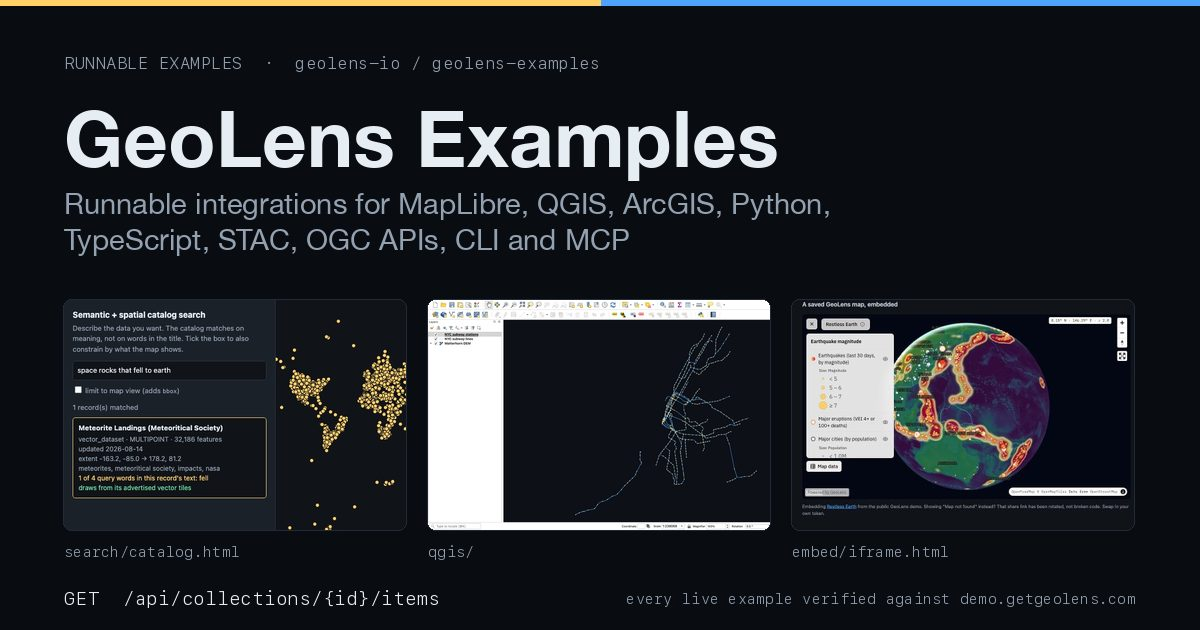
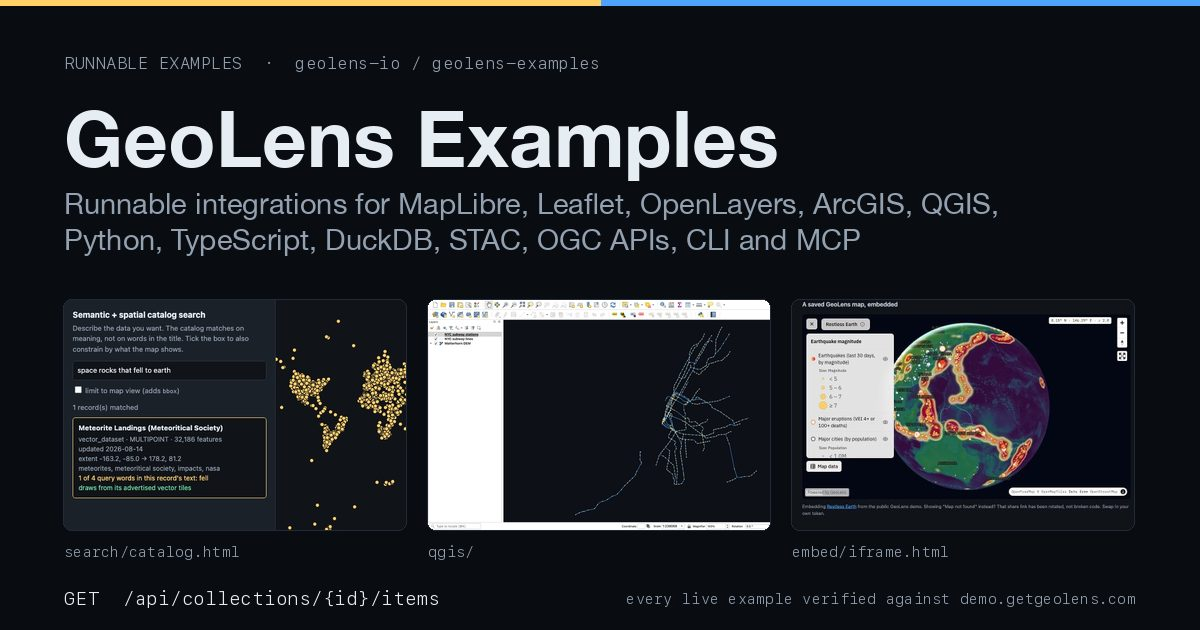
site: review fixes (showcase maps claim, QGIS alt text, DuckDB in the description and social card, image alt tags, star wording)

Changed region(s): [[0.0308, 0.3016, 0.8325, 0.4222]]

diff --git a/index.html b/index.html
@@ -4,7 +4,7 @@
 <meta charset="utf-8" />
 <title>GeoLens Examples</title>
 <meta name="viewport" content="width=device-width, initial-scale=1" />
-<meta name="description" content="Runnable examples for reading a GeoLens catalog from MapLibre, Leaflet, OpenLayers, the ArcGIS SDK, the TypeScript and Python SDKs, and MCP: OGC API Features, STAC, vector and raster tiles, and embedded maps. Every live example runs against the public demo." />
+<meta name="description" content="Runnable examples for reading a GeoLens catalog from MapLibre, Leaflet, OpenLayers, the ArcGIS SDK, QGIS, DuckDB, the TypeScript and Python SDKs, the CLI and MCP: OGC API Features, STAC, vector and raster tiles, and embedded maps. Every live example runs against the public demo." />
 <link rel="canonical" href="https://geolens-io.github.io/geolens-examples/" />
 <meta property="og:title" content="GeoLens Examples" />
 <meta property="og:description" content="Copy-paste integrations against a self-hosted GeoLens spatial data hub: OGC API Features, STAC, vector and raster tiles, embedded maps, and both SDKs. Every live example runs against the public demo." />
@@ -13,10 +13,12 @@
 <meta property="og:image" content="https://geolens-io.github.io/geolens-examples/assets/social-card.jpg" />
 <meta property="og:image:width" content="1200" />
 <meta property="og:image:height" content="630" />
+<meta property="og:image:alt" content="GeoLens Examples: semantic catalog search, QGIS, and an embedded map, each reading the public demo" />
 <meta name="twitter:card" content="summary_large_image" />
 <meta name="twitter:title" content="GeoLens Examples" />
 <meta name="twitter:description" content="Copy-paste integrations against a self-hosted GeoLens spatial data hub: OGC API Features, STAC, vector and raster tiles, embedded maps, and both SDKs. Every live example runs against the public demo." />
 <meta name="twitter:image" content="https://geolens-io.github.io/geolens-examples/assets/social-card.jpg" />
+<meta name="twitter:image:alt" content="GeoLens Examples: semantic catalog search, QGIS, and an embedded map, each reading the public demo" />
 <link rel="icon" href="assets/favicon.svg" type="image/svg+xml" />
 <link rel="icon" href="assets/favicon-32.png" type="image/png" sizes="32x32" />
 <style>
@@ -249,7 +251,7 @@
       <a href="https://github.com/geolens-io/geolens-examples">Repository</a>
       <a href="https://demo.getgeolens.com/collections">Demo catalog</a>
       <a class="star" href="https://github.com/geolens-io/geolens">★ Star geolens on GitHub</a>
-      <a class="star quiet" href="https://github.com/geolens-io/geolens-examples">☆ Save these examples</a>
+      <a class="star quiet" href="https://github.com/geolens-io/geolens-examples">☆ Star the examples</a>
     </nav>
   </header>
 
@@ -330,7 +332,7 @@
 
   <footer class="page">
     <p>
-      Not here yet: ArcGIS Pro, and the workflows the public demo cannot host at all
+      Not here yet: ArcGIS Pro and the workflows the public demo cannot host at all
       (server-side analysis, private embeds).
       <a href="https://github.com/geolens-io/geolens-examples/issues">Open an issue</a> if you want one sooner.
     </p>

diff --git a/README.md b/README.md
@@ -5,11 +5,11 @@
 [![GeoLens v1.13+](https://img.shields.io/badge/GeoLens-v1.13%2B-1a66c9)](https://github.com/geolens-io/geolens)
 [![License: MIT](https://img.shields.io/badge/License-MIT-blue.svg)](LICENSE)
 
-[GeoLens](https://github.com/geolens-io/geolens) is a self-hosted spatial data hub: catalog, search, maps, analysis, and open APIs over data that stays on your own infrastructure. This repo holds copy-paste integrations for the tools your stack already uses. Every browser, Python and DuckDB example reads the public demo anonymously, so you clone, open, and see it render; one constant at the top points it at your own instance. The exception is [`cli/`](cli/), which publishes to a catalog and so runs against your own instance with a credential.
+[GeoLens](https://github.com/geolens-io/geolens) is a self-hosted spatial data hub: catalog, search, maps, analysis, and open APIs over data that stays on your own infrastructure. This repo holds copy-paste integrations for the tools your stack already uses. Every browser, Python, and DuckDB example reads the public demo anonymously, so you clone, open, and see it run; one constant at the top points it at your own instance. The exception is [`cli/`](cli/), which publishes to a catalog and so runs against your own instance with a credential.
 
 <p align="center">
   <a href="https://geolens-io.github.io/geolens-examples/search/catalog.html"><img src="assets/search-catalog.jpg" width="32%" alt="Semantic catalog search: the phrase 'space rocks that fell to earth' matches the meteorite landings dataset, drawn on the map beside the result card" /></a>
-  <a href="qgis/"><img src="assets/qgis-window.jpg" width="32%" alt="QGIS with the demo's subway stations, subway lines and Matterhorn DEM added through one OGC API Features connection" /></a>
+  <a href="qgis/"><img src="assets/qgis-window.jpg" width="32%" alt="QGIS showing the demo's subway stations and lines over OGC API Features, and the Matterhorn DEM as XYZ tiles" /></a>
   <a href="https://geolens-io.github.io/geolens-examples/embed/iframe.html"><img src="assets/embed-iframe.jpg" width="32%" alt="A saved GeoLens map, Restless Earth, embedded in an iframe on a plain page with its legend and styling intact" /></a>
 </p>
 <p align="center"><em>Search the catalog by meaning, connect from desktop GIS, or embed a map, with the same self-hosted catalog and open APIs underneath.</em></p>
@@ -30,7 +30,7 @@ The table below is arranged by tool. Read in this order, the same examples trace
 1. **Install.** `curl -fsSL https://getgeolens.com/install.sh | sh` starts the stack with Docker Compose; open `http://localhost:8080` about a minute later ([install guide](https://docs.getgeolens.com/guides/quickstart/install/)). The [public demo](https://demo.getgeolens.com) covers the read steps below without an install.
 2. **Publish two sources.** Declare them in a manifest and run `geolens apply`. [`cli/`](cli/) holds a `geolens.yaml` with two Natural Earth layers and the GitHub Actions workflow that applies it ([CLI guide](https://docs.getgeolens.com/guides/cli/)).
 3. **Find them by meaning.** [`search/catalog.html`](search/catalog.html) asks the catalog for a phrase rather than a title. On your own instance semantic search is off until an admin adds an embedding provider, turns it on under Admin > Settings > AI, and runs the embedding backfill ([search guide](https://docs.getgeolens.com/guides/user/search/)).
-4. **Build a map.** Add layers from the catalog, style each one, set the viewport, save ([map builder guide](https://docs.getgeolens.com/guides/user/map-builder/)). The [showcase maps](https://demo.getgeolens.com/maps) on the demo were made this way.
+4. **Build a map.** Add layers from the catalog, style each one, set the viewport, save ([map builder guide](https://docs.getgeolens.com/guides/user/map-builder/)). The demo's [showcase maps](https://demo.getgeolens.com/maps) came in through the same maps API, by script rather than by hand.
 5. **Analyze on the server.** The builder's Analysis panel runs buffer, intersect, dissolve and five more operations in PostGIS and writes the result back to the catalog as a new dataset; all but dissolve preview on the map first ([analysis guide](https://docs.getgeolens.com/guides/user/analysis/)). The demo answers anonymous analysis calls with 401, so there is no live example here; [`python/analyze.py`](python/analyze.py) does the same join client-side.
 6. **Publish or embed it.** A share link gives the map a stable `/m/<token>` URL, and `?embed=true` puts it in an iframe on a page that is not GeoLens: [`embed/iframe.html`](embed/iframe.html).
 7. **Read it back from anywhere.** The same catalog answers QGIS over OGC API Features ([`qgis/`](qgis/)), the Python SDK ([`python/sdk-catalog.py`](python/sdk-catalog.py)), the TypeScript SDK ([`typescript/catalog-map.html`](typescript/catalog-map.html)), and plain SQL in DuckDB ([`duckdb/features.sql`](duckdb/features.sql)).
